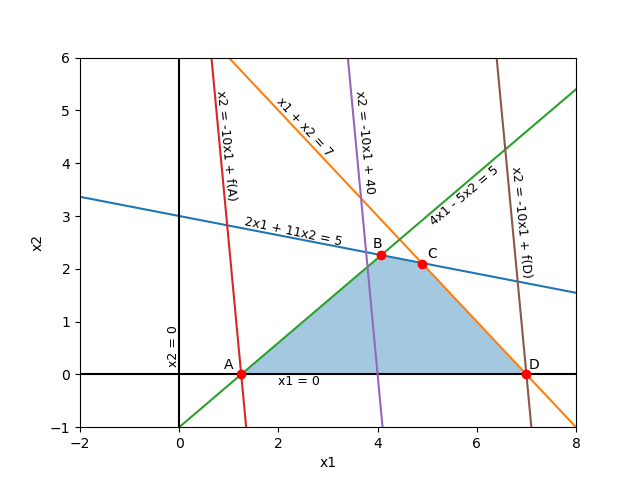
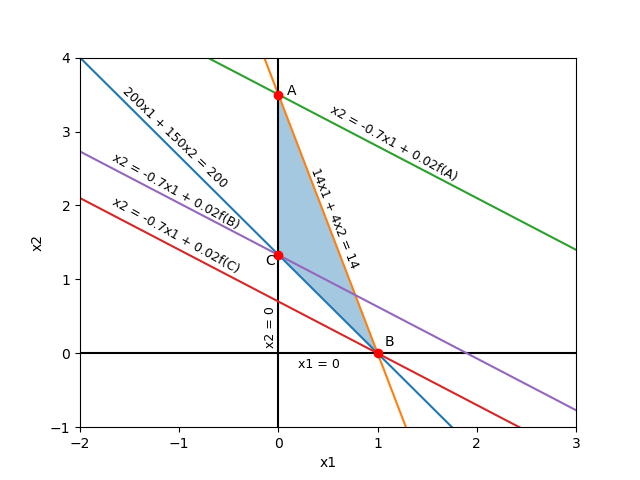
дополнен график для восьмого варианта

diff --git a/cherry.py b/cherry.py
@@ -65,14 +65,22 @@ def var_8():
     e2 = lambda x1: (7 - 7 * x1) / 2
     e3 = lambda x1: 0
 
+    f1 = lambda x1: (- 35 * x1 + 175)/50
+    f2 = lambda x1: (- 35 * x1 + 35)/50
+    f3 = lambda x1: (- 35 * x1 + 66.5)/50
+
     fig, ax = plt.subplots()
 
     ax.plot(x1, list(map(e1, x1)))
     ax.plot(x1, list(map(e2, x1)))
-    ax.plot(x1, list(map(e3, x1)))
-    ax.plot([0, 0], [-1, 4])
+    ax.plot(x1, list(map(e3, x1)), color='black')
+    ax.plot([0, 0], [-1, 4], color='black')
 
     ax.add_collection(PatchCollection([Polygon([(1, 0), (0, 1.333), (0, 3.5)], closed=True)], alpha=0.4))
+
+    ax.plot(x1, list(map(f1, x1)))
+    ax.plot(x1, list(map(f2, x1)))
+    ax.plot(x1, list(map(f3, x1)))
 
     ax.set_xlabel('x1')
     ax.set_ylabel('x2')
@@ -81,10 +89,14 @@ def var_8():
     ax.set_ylim((-1, 4))
 
     axis = plt.gca()
-    axis.text(0.2, -0.2, 'x1 = 0')
-    axis.text(-0.15, 0.75, 'x2 = 0', rotation=90)
-    axis.text(0.42, 2, '14x1 + 4x2 = 14', rotation=-68)
-    axis.text(-1.3, 3.1, '200x1 + 150x2 = 200', rotation=-43.8)
+    axis.text(0.2, -0.2, 'x1 = 0', fontdict={'fontsize': 9})
+    axis.text(-0.15, 0.5, 'x2 = 0', fontdict={'fontsize': 9}, rotation=90)
+    axis.text(0.3, 2.4, '14x1 + 4x2 = 14', fontdict={'fontsize': 9}, rotation=-68)
+    axis.text(-1.6, 3.5, '200x1 + 150x2 = 200', fontdict={'fontsize': 9}, rotation=-43.8)
+
+    axis.text(0.5, 3.25, 'x2 = -0.7x1 + 0.02f(A)', fontdict={'fontsize': 9}, rotation=-29)
+    axis.text(-1.7, 2.6, 'x2 = -0.7x1 + 0.02f(B)', fontdict={'fontsize': 9}, rotation=-29)
+    axis.text(-1.7, 2, 'x2 = -0.7x1 + 0.02f(C)', fontdict={'fontsize': 9}, rotation=-29)
 
     axis.text(0.09, 3.5, 'A')
     axis.text(-0.13, 1.2, 'C')
@@ -98,4 +110,4 @@ def var_8():
 
 
 if __name__ == '__main__':
-    var_6()
+    var_8()
